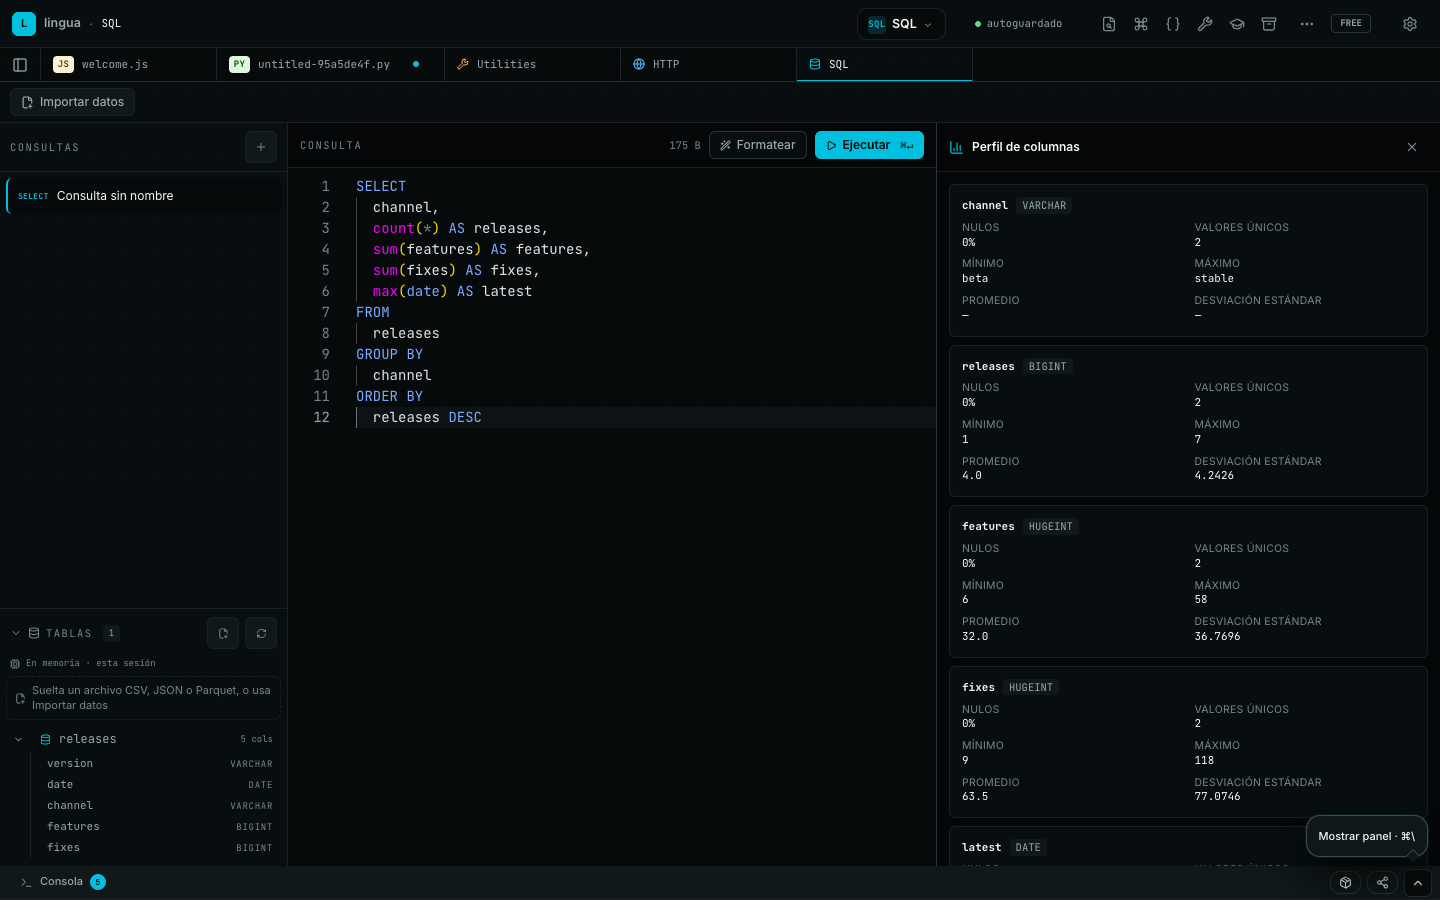
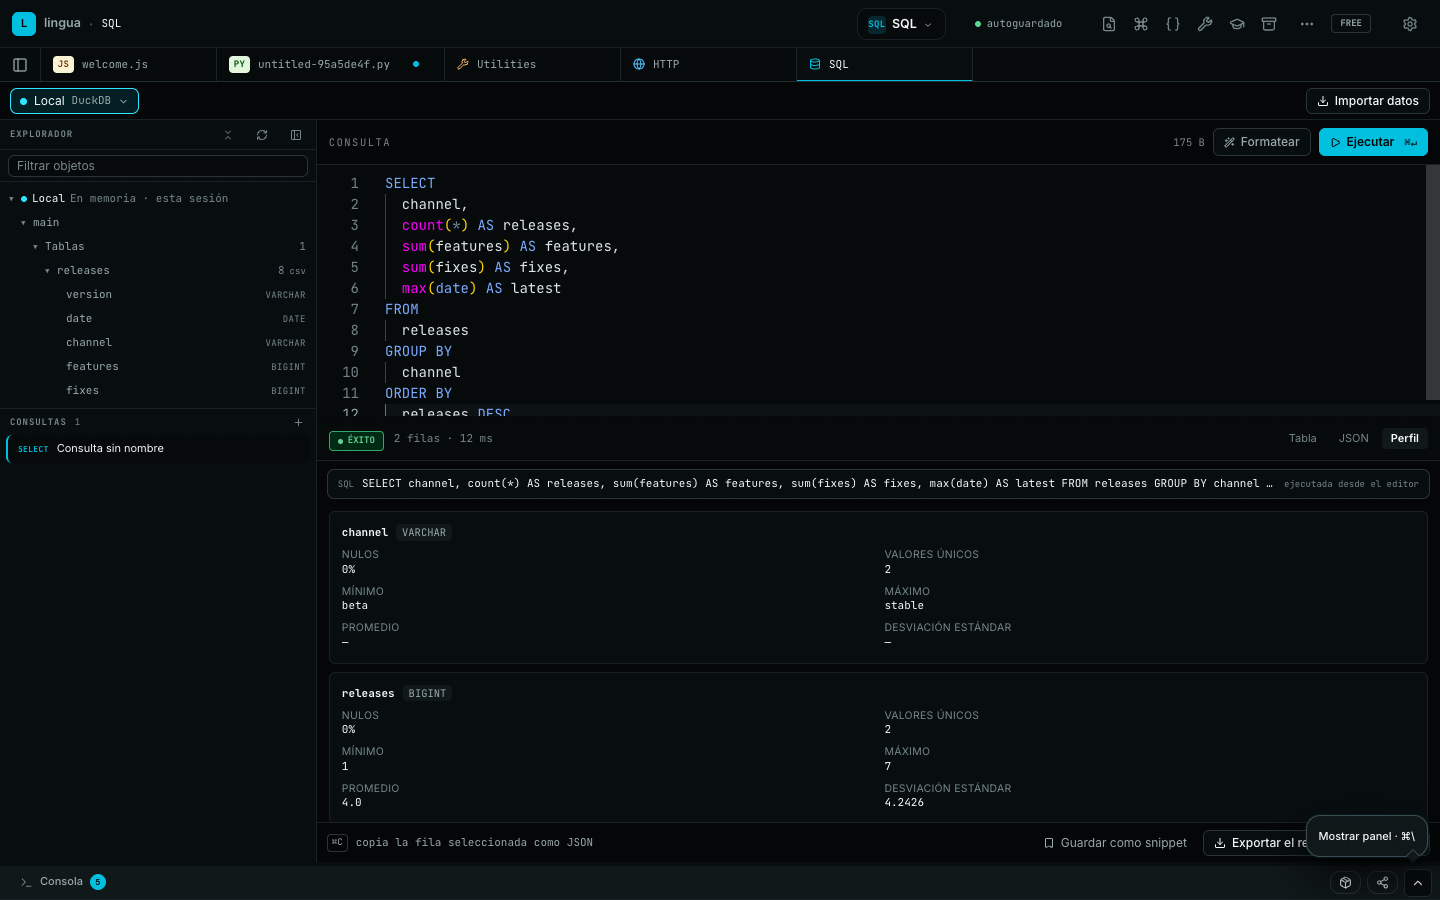
test(sql): cover the Explorer, the sample table and export in the web build and add the phase captures
- The SQL e2e spec checks row counts and the source tag after a CSV import, runs the sample table, opens it from the Explorer under a generated strip, exports TSV, and folds the Explorer with Cmd/Ctrl+B
- The tour spec opens Profile as a results tab, and the website SQL tour images and their alt text follow the new layout
- Before and after captures of the SQL tab in dark, light and Spanish

diff --git a/tests/e2e/sqlWorkspace.spec.ts b/tests/e2e/sqlWorkspace.spec.ts
@@ -95,10 +95,63 @@ test.describe('SQL workspace — Mod+Alt+S binding', () => {
     await page.getByTestId('sql-import-modal-confirm').click();
     await expect(dialog).toBeHidden();
 
-    // The new table appears in the schema browser.
+    // The new table appears in the Explorer with its row count and source file.
+    const people = page.locator('[data-testid="sql-explorer-table"][data-table-name="people"]');
+    await expect(people).toBeVisible();
+    const row = people.locator('..');
+    await expect(row.getByTestId('sql-explorer-row-count')).toHaveText('2');
+    await expect(row.getByTestId('sql-explorer-source')).toHaveText('csv');
+  });
+
+  test('a sample table opens in the Explorer, runs, and exports (EN)', async ({ page }) => {
+    const consoleErrors: string[] = [];
+    page.on('console', (message) => {
+      if (message.type() === 'error') consoleErrors.push(message.text());
+    });
+    await seedSession(page, { language: 'en' });
+    await gotoApp(page);
+    await page.keyboard.press('ControlOrMeta+Alt+S');
+    await page.getByTestId('sql-explorer-try-sample').click();
     await expect(
-      page.locator('[data-testid="sql-schema-browser-table"][data-table-name="people"]')
+      page.locator('[data-testid="sql-explorer-table"][data-table-name="cities"]')
     ).toBeVisible();
+
+    // The sample query is ready, not run.
+    await expect(page.getByTestId('sql-result-preview')).toHaveAttribute('data-state', 'empty');
+    await page.getByTestId('sql-query-editor-run').click();
+    await expect(page.getByTestId('sql-result-preview-row')).toHaveCount(6);
+    await expect(page.getByTestId('sql-result-strip')).toContainText('ran from the editor');
+    const revenue = page.getByTestId('sql-result-preview-row').first().locator('td').nth(2);
+    await expect(revenue).toHaveText('28770.90');
+    await expect(revenue).toHaveClass(/text-right/);
+
+    // Opening the table from the Explorer shows its rows under a generated strip.
+    await page.locator('[data-testid="sql-explorer-table"][data-table-name="cities"]').click();
+    await expect(page.getByTestId('sql-result-strip')).toHaveAttribute('data-origin', 'table');
+    await expect(page.getByTestId('sql-result-strip-sql')).toHaveText(
+      'SELECT * FROM "cities" LIMIT 100;'
+    );
+
+    await page.getByTestId('sql-result-preview-export').click();
+    await expect(page.getByTestId('sql-export-count')).toHaveText('6 rows from this result');
+    await page.getByTestId('sql-export-format-tsv').click();
+    const download = page.waitForEvent('download');
+    await page.getByTestId('sql-export-download').click();
+    expect((await download).suggestedFilename()).toMatch(/^lingua-sql-\d{8}-\d{6}\.tsv$/);
+    expect(consoleErrors).toEqual([]);
+  });
+
+  test('folds the Explorer to its rail with Cmd/Ctrl+B', async ({ page }) => {
+    await seedSession(page, { language: 'en' });
+    await gotoApp(page);
+    await page.keyboard.press('ControlOrMeta+Alt+S');
+    await expect(page.getByTestId('sql-explorer')).toBeVisible();
+    await page.getByTestId('sql-explorer-refresh').focus();
+    await page.keyboard.press('ControlOrMeta+B');
+    await expect(page.getByTestId('sql-explorer-rail')).toBeVisible();
+    await expect(page.getByTestId('sql-explorer')).toHaveCount(0);
+    await page.getByTestId('sql-explorer-unfold').click();
+    await expect(page.getByTestId('sql-explorer')).toBeVisible();
   });
 
   test('profiles a successful read query only after an explicit click (EN)', async ({
@@ -121,8 +174,8 @@ test.describe('SQL workspace — Mod+Alt+S binding', () => {
     );
     await page.getByTestId('sql-query-editor-run').click();
 
-    await expect(page.getByTestId('sql-result-preview-profile')).toBeVisible();
-    await page.getByTestId('sql-result-preview-profile').click();
+    await expect(page.getByRole('button', { name: 'Profile' })).toBeVisible();
+    await page.getByRole('button', { name: 'Profile' }).click();
     await expect(page.getByTestId('sql-column-profile-panel')).toBeVisible();
     await expect(page.getByTestId('sql-column-profile-panel')).toContainText('id');
     await expect(page.getByTestId('sql-column-profile-panel')).toContainText('name');
@@ -150,11 +203,16 @@ test.describe('SQL workspace — Mod+Alt+S binding', () => {
     await replaceSqlEditorText(page, 'SELECT 1 AS valor');
     await page.getByTestId('sql-query-editor-run').click();
 
-    await expect(page.getByTestId('sql-result-preview-profile')).toHaveAttribute(
+    await expect(page.getByRole('button', { name: 'Perfil' })).toBeVisible();
+    await expect(page.getByTestId('sql-connection-pill')).toHaveAttribute(
       'aria-label',
-      'Analizar columnas'
+      'Conexión: Local DuckDB'
     );
-    await page.getByTestId('sql-result-preview-profile').click();
+    await expect(page.getByTestId('sql-explorer-filter')).toHaveAttribute(
+      'placeholder',
+      'Filtrar objetos'
+    );
+    await page.getByRole('button', { name: 'Perfil' }).click();
     await expect(page.getByTestId('sql-column-profile-panel')).toHaveAttribute(
       'aria-label',
       'Perfil de columnas'

diff --git a/website/src/i18n/es.ts b/website/src/i18n/es.ts
@@ -228,7 +228,7 @@ export const es = {
         },
         {
           image: '/screenshots/tour/sql-workspace-es.png',
-          alt: 'Workspace SQL con una tabla releases importada en el explorador de esquema, una query de agregación formateada y el panel de perfil de columnas de su resultado',
+          alt: 'Workspace SQL con una tabla releases importada en el explorador, una query de agregación formateada y la pestaña Perfil de su resultado bajo el editor',
           title: 'Un workspace SQL completo sobre DuckDB',
           body: 'Suelta un CSV, JSON o Parquet y se convierte en una tabla consultable sobre el motor DuckDB incluido — con grid de resultados, formateo de queries con una tecla y perfil por columna. Tu Run Ledger local también se consulta desde aquí.',
         },

diff --git a/website/src/i18n/en.ts b/website/src/i18n/en.ts
@@ -228,7 +228,7 @@ export const en = {
         },
         {
           image: '/screenshots/tour/sql-workspace.png',
-          alt: 'SQL workspace with an imported releases table in the schema browser, a formatted aggregate query, and the column profile panel for its result',
+          alt: 'SQL workspace with an imported releases table in the Explorer, a formatted aggregate query, and the Profile tab of its result below the editor',
           title: 'A full SQL workspace on DuckDB',
           body: 'Drop a CSV, JSON, or Parquet file and it becomes a queryable table on the bundled DuckDB engine — results grid, one-keystroke query formatting, and per-column profiling included. Your local Run Ledger is queryable from here too.',
         },

diff --git a/tests/e2e/tourVisual.spec.ts b/tests/e2e/tourVisual.spec.ts
@@ -197,7 +197,7 @@ test.describe('website tour evidence', () => {
       await page.getByTestId('sql-query-editor-format').click();
       await page.getByTestId('sql-query-editor-run').click();
       await page.getByRole('button', { name: /(Show columns for|Muestra las columnas de) releases/ }).click();
-      await page.getByTestId('sql-result-preview-profile').click();
+      await page.getByRole('button', { name: /^(Profile|Perfil)$/ }).click();
       await expect(page.getByTestId('sql-column-profile-panel')).toBeVisible();
       await capture(page, `sql-workspace-${language}.png`);
 
